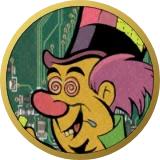
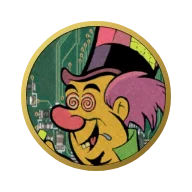
fix(nav): Comix coin sized to match its neighbors. It filled its whole frame and read heavier than the Shows smiley and Games cards beside it; redrawn from the cover art at 78% of the frame (the Shows smiley measures 78%) with transparent margin, and the frame raised from 160 to 192px so it stays sh

diff --git a/sw.js b/sw.js
@@ -4,7 +4,7 @@
 // UPDATE CACHE_VERSION DATE ON EVERY PUSH
 // ════════════════════════════════════════════════════════════════
 
-var CACHE_NAME = 'jestamang-v516';
+var CACHE_NAME = 'jestamang-v517';
 var BADGE      = '/assets/icons/icon-192.png';
 
 var PRECACHE_URLS = [
